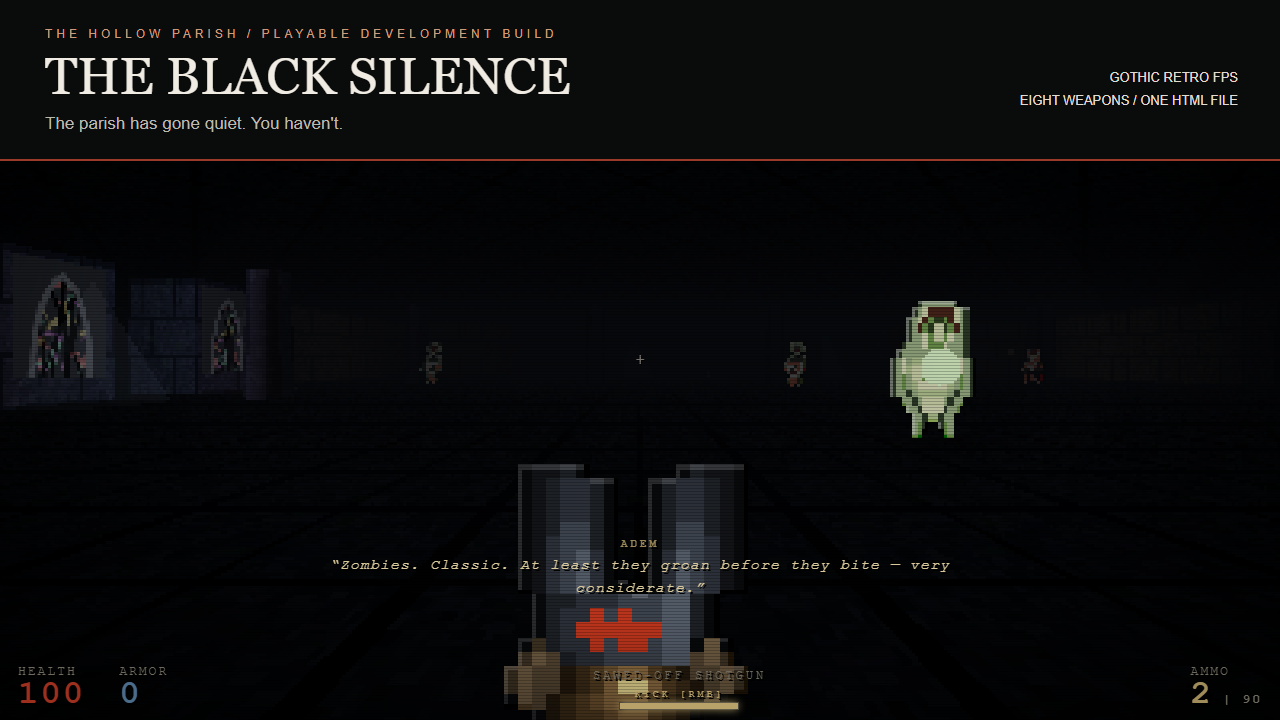
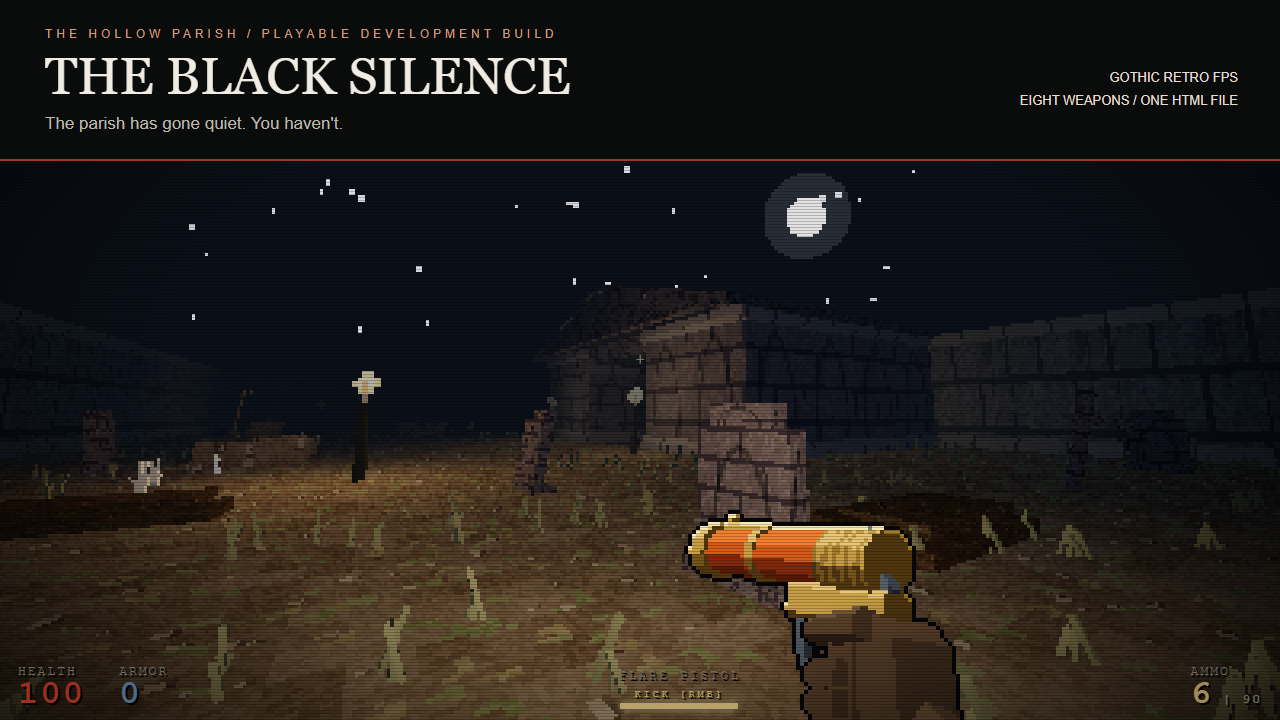
docs: new screenshots, preview and README from the current game

diff --git a/docs/PRESS-KIT.md b/docs/PRESS-KIT.md
@@ -5,28 +5,34 @@
 **Tagline:** The parish has gone quiet. You haven't.
 
 **Short description:** A gothic retro FPS in one downloadable HTML file.
-Explore a prologue and seven chapters, acquire eight weapons, and power-kick
-your way through the Hollow Parish.
+Claw out of a grave, cross hell, explore seven chapters, acquire eight
+weapons, and power-kick your way through the Hollow Parish.
 
 **Promotional copy:** Descend into THE BLACK SILENCE: The Hollow Parish, a
-playable retro FPS in development. Push through a gothic dungeon, an abandoned
-church, and the horrors beyond with an arsenal that stretches from a
-sawed-off shotgun to the Soul Reaper. Hunt for secret doors, confront bosses,
-or take a moment at a playable piano. Download the single HTML file and play
+playable retro FPS in development. Wake in a coffin, claw out into a churchyard
+at night, and descend through hell's lava pit before the climb. Push through a
+furnished gothic dungeon, an abandoned church, and the horrors beyond with an
+arsenal that stretches from a flare pistol and a sawed-off shotgun to the Soul
+Reaper, each drawn as a small animated 3D rig. Every sound is rebuilt, with a
+reverb room per theme. Hunt for secret doors, confront bosses, or take a
+moment at a playable piano. Download the single HTML file and play
 offline in a desktop browser. No launcher required.
 
 ## Türkçe
 
 **Slogan:** Sessizlik çöktü. Sıra sende.
 
-**Kısa açıklama:** Tek bir HTML dosyasında gotik retro FPS. Bir ön bölüm ve
-yedi bölümü keşfet, sekiz silahı topla ve Hollow Parish'in karanlığında
-kendine tekmelerle yol aç.
+**Kısa açıklama:** Tek bir HTML dosyasında gotik retro FPS. Mezarından çık,
+cehennemi geç, yedi bölümü keşfet, sekiz silahı topla ve Hollow Parish'in
+karanlığında kendine tekmelerle yol aç.
 
 **Tanıtım metni:** THE BLACK SILENCE: The Hollow Parish, geliştirme aşamasında
-oynanabilir bir retro FPS. Gotik zindanlardan terk edilmiş bir kiliseye ve
-ötesindeki dehşete uzanan yolculukta, kesik namlulu pompalı tüfekten Soul
-Reaper'a kadar sekiz silahı keşfet. Gizli kapıları bul, bölüm sonu düşmanlarıyla
+oynanabilir bir retro FPS. Tabutta uyan, gece bir mezarlığa tırmanıp çık,
+cehennemin lav havuzundan geç. Döşenmiş gotik zindanlardan terk edilmiş bir
+kiliseye ve ötesindeki dehşete uzanan yolculukta, flare tabancasından ve
+kesik namlulu pompalı tüfekten Soul Reaper'a kadar, her biri hareketli küçük
+bir 3B düzenek olarak çizilmiş sekiz silahı keşfet. Bütün sesler yeniden yapıldı.
+Gizli kapıları bul, bölüm sonu düşmanlarıyla
 yüzleş veya çalınabilir piyanonun başında kısa bir mola ver. Tek HTML dosyasını
 indir ve masaüstü tarayıcında çevrimdışı oyna. Başlatıcı gerektirmez.
 
@@ -47,25 +53,34 @@ indir ve masaüstü tarayıcında çevrimdışı oyna. Başlatıcı gerektirmez.
 ## Media / Medya
 
 - [Playable HTML / Oynanabilir HTML](../THE-BLACK-SILENCE.html)
-- [Trailer / Tanıtım videosu (MP4)](media/black-silence-trailer.mp4)
+- [Trailer / Tanıtım videosu (MP4, recorded from the 2026-09-18 build / 2026-09-18 sürümünden)](media/black-silence-trailer.mp4)
 - [Play online / Tarayıcıda oyna](https://torunum.github.io/black-silence/)
 - [Cover image / Tanıtım görseli (PNG)](media/cover.png)
 - [Gameplay preview / Oynanış önizlemesi (GIF)](media/preview.gif)
-- [Dungeon / Zindan (PNG)](media/dungeon.png)
-- [Corrupted Priest / Rahip karşılaşması (PNG)](media/church.png)
-- [Dungeon screenshot / Zindan ekran görüntüsü (PNG)](media/dungeon.png)
-- [Church screenshot / Kilise ekran görüntüsü (PNG)](media/church.png)
+- [Churchyard at night / Gece mezarlığı (PNG)](media/01-churchyard.png)
+- [Rising out of the grave / Mezardan çıkış (PNG)](media/02-grave-rising.png)
+- [Hell, the lava pit and the bridge / Cehennem, lav havuzu ve köprü (PNG)](media/03-hell-lava.png)
+- [The torture hall / İşkence salonu (PNG)](media/04-torture-hall.png)
+- [The church altar / Kilise sunağı (PNG)](media/05-church-altar.png)
+- [The Womb / Rahim (PNG)](media/06-womb.png)
+- [A crawler in the lava / Lavda sürünen (PNG)](media/07-hell-crawler.png)
+- [All eight weapons / Sekiz silahın hepsi (PNG)](media/08-weapons.png)
+- [Sound board / Ses panosu](https://torunum.github.io/black-silence/soundboard.html)
 - [README and controls / README ve kontroller](../README.md)
 - [Development status / Geliştirme durumu](STATUS.md)
 - [Known issues / Bilinen sorunlar](known-issues.md)
 
-**Capture note:** Trailer shots use staged camera positions and aim, unlocked
+**Capture note:** The stills and the preview GIF use staged camera positions and aim,
+unlocked weapons and supplied ammo, from the 2026-10-05 build; details are in
+[media/README.md](media/README.md). Trailer shots use staged camera positions and aim, unlocked
 weapon loadouts and supplied ammo, plus extended spawn protection for filming.
 Footage uses the running game's actual renderer and audio. The trailer is an
 edited showcase, not a continuous playthrough or a demonstration of normal
 progression and difficulty.
 
-**Çekim notu:** Tanıtım videosu için kamera konumları ve nişan ayarlanmış,
+**Çekim notu:** Ekran görüntüleri ve GIF, 2026-10-05 sürümünden, ayarlanmış kamera ve
+nişan, açılmış silahlar ve sağlanmış cephane ile alındı; ayrıntılar
+[media/README.md](media/README.md) içinde. Tanıtım videosu için kamera konumları ve nişan ayarlanmış,
 silah kilitleri açılmış, cephane sağlanmış ve doğuş sonrası koruma süresi
 uzatılmıştır. Görüntüler ve sesler çalışan oyundan alınmıştır. Video,
 kesintisiz bir oynanış kaydı veya normal ilerleyiş ve zorluğun gösterimi

diff --git a/README.md b/README.md
@@ -6,32 +6,60 @@
 
 A gothic retro first-person shooter with pixelated 3D spaces, eight weapons,
 and a power kick for anything that gets too close. Download one HTML file,
-open it in your desktop browser, and descend.
+open it in your desktop browser, and claw your way out of the ground.
 
 ![THE BLACK SILENCE: The Hollow Parish](docs/media/cover.png)
 
 **[Play in your browser](https://torunum.github.io/black-silence/)** ·
 **[Download the game](https://github.com/torunum/black-silence/releases/download/preview-2026-09-18/THE-BLACK-SILENCE.html)** ·
-**[Watch the trailer](https://torunum.github.io/black-silence/media/black-silence-trailer.mp4)** ·
+**[Watch the trailer](https://torunum.github.io/black-silence/media/black-silence-trailer.mp4)** (from the 2026-09-18 build) ·
+**[Listen to the sound board](https://torunum.github.io/black-silence/soundboard.html)** ·
 **[Press kit / Basın kiti](docs/PRESS-KIT.md)**
 
 ## Enter the Parish
 
-- **A prologue and seven chapters:** from the pit and gothic dungeon through
-  an abandoned church, necropolis, graveyard, sewers, factory, and The Womb.
-- **Eight weapons to acquire:** a sawed-off shotgun, automatic weapons, a scoped
-  sniper, the Holy Cross Launcher, and the Soul Reaper expand your arsenal.
+- **It starts in a grave.** In the prologue ADEM wakes in a coffin, splits the
+  lid, and claws out into a churchyard at night: stars, a moon, headstones,
+  a mausoleum. Its crypt stair leads down into hell: cracked basalt with
+  glowing fissures, a real flowing lava pit with a lava fall, a stone bridge,
+  fire and embers. Then you climb back out. Seven chapters follow: the gothic
+  dungeon, an abandoned church, a necropolis, a graveyard, sewers, a factory,
+  and The Womb.
+- **Eight weapons to acquire:** a flare pistol, a sawed-off shotgun, a combat
+  rifle, a tommy gun, a scoped sniper, the Holy Cross Launcher, a nail cannon,
+  and the Soul Reaper. Each is a small 3D rig, posed and drawn down to pixel
+  art every frame, with mechanisms that move: the pump, the break-open
+  barrels, the drum, the spinning cluster.
 - **Close-range impact:** sprint, jump, and power-kick enemies into walls.
-- **More than corridors:** secret doors, red keys, explosive barrels, boss
-  encounters, and a playable piano.
+  The sprint has its own pose, the stride is a human two or three steps a
+  second, and the kick is a real leg.
+- **Rooms with things in them:** a torture hall of cages, racks and iron
+  maidens; a nave of candelabra, banners and fallen saints; sarcophagi, pipes
+  and machines; flesh growths in The Womb. The large pieces are solid.
+  Secret doors, red keys, explosive barrels, boss encounters, and a playable
+  piano are still in there.
+- **A sound of its own:** every sound is rebuilt: a reverb room per theme,
+  layered weapons, monster voices, and the sounds of the world. The
+  [sound board](https://torunum.github.io/black-silence/soundboard.html)
+  plays them one by one.
 - **Built from code:** procedural textures, sprites, sound, and music;
   adjustable low-resolution rendering and locally saved chapter unlocks
   when browser storage is available.
 
 ![Animated gameplay preview](docs/media/preview.gif)
 
-[Dungeon screenshot](docs/media/dungeon.png) ·
-[Church screenshot](docs/media/church.png)
+| | |
+| --- | --- |
+| ![A night churchyard: the moon, a mausoleum, an open grave](docs/media/01-churchyard.png) | ![Hell: a lava river, a lava fall and a stone bridge](docs/media/03-hell-lava.png) |
+| The churchyard, with the grave ADEM left open | Hell: basalt, fire and a river of lava |
+| ![The abandoned church: an altar under banners, two zombies](docs/media/05-church-altar.png) | ![The Womb: a hall of flesh](docs/media/06-womb.png) |
+| Level 2, the church altar and its banners | Level 7, The Womb |
+
+![All eight weapons](docs/media/08-weapons.png)
+
+More: [rising out of the grave](docs/media/02-grave-rising.png) ·
+[the torture hall in a fight](docs/media/04-torture-hall.png) ·
+[a crawler in the lava](docs/media/07-hell-crawler.png).
 
 ## Play
 
@@ -112,10 +140,17 @@ a complete network-dependency audit.
 **Sessizlik çöktü. Sıra sende.**
 
 THE BLACK SILENCE: The Hollow Parish, gotik atmosferi retro FPS aksiyonuyla
-birleştiren, geliştirme aşamasında oynanabilir bir oyun. Bir ön bölüm ve yedi
-bölüm boyunca sekiz silahı keşfet; koş, zıpla ve yaklaşan düşmanları tekmeyle
-savur. Gizli kapılar, bölüm sonu karşılaşmaları ve çalınabilir bir piyano seni
-bekliyor.
+birleştiren, geliştirme aşamasında oynanabilir bir oyun. Ön bölümde ADEM, gece
+bir mezarlıkta tabutunu yarıp mezarından çıkıyor; mezarlıktaki mozolenin mahzen
+merdiveni onu cehenneme indiriyor: parlayan çatlaklı bazalt, akan gerçek bir
+lav havuzu, taş bir köprü, ateş ve kor. Sonra yedi bölüm boyunca sekiz silahı
+keşfet. Silahların hepsi baştan çizildi; her biri hareketli mekanizmalarıyla
+küçük bir 3B düzenek. Koş, zıpla ve yaklaşan düşmanları tekmeyle savur. İşkence
+salonu, şamdanlı kilise nefi, lahitler ve et kütleleriyle döşenmiş
+bölümlerde, gizli kapılar, bölüm sonu karşılaşmaları ve çalınabilir bir piyano
+seni bekliyor. Ses tamamen yeniden yapıldı; her sesi
+[ses panosunda](https://torunum.github.io/black-silence/soundboard.html) tek tek
+dinleyebilirsin.
 
 [Tarayıcıda oyna](https://torunum.github.io/black-silence/) veya
 [tek HTML dosyasını indir](https://github.com/torunum/black-silence/releases/download/preview-2026-09-18/THE-BLACK-SILENCE.html), masaüstü tarayıcında aç

diff --git a/docs/media/README.md b/docs/media/README.md
@@ -1,22 +1,65 @@
 # Publication Media
 
-Captured on 2026-09-18 from the local development build at game commit
-`d6c7033`, without changes to gameplay source. All pictures and sound come
-from the game's procedural renderer and WebAudio engine; no stock footage,
-external music, or generated concept art is used.
+The stills, `preview.gif` and `cover.png` were captured on 2026-10-05 from the
+local development build at game commit `38319e2` (master), without changes to
+gameplay source. All pictures come from the game's procedural renderer; no
+stock footage, external music, or generated concept art is used.
+
+**The trailer is older.** `black-silence-trailer.mp4` was recorded on
+2026-09-18 from game commit `d6c7033` and has not been re-recorded: it shows
+the earlier weapons, the earlier prologue and no sound rebuild. Everything
+else in this folder is from the current game.
 
 - `black-silence-trailer.mp4`: approximately 26 seconds, 1280x720, 25 fps,
-  H.264 video and AAC stereo audio, fast-start MP4.
-- `preview.gif`: seven-second combat excerpt, 640x360, 10 fps.
-- `cover.png`: promotional typography over the dungeon capture, 1280x720.
-- `dungeon.png`, `church.png`: 1280x720 browser captures with trailer captions.
+  H.264 video and AAC stereo audio, fast-start MP4. From the 2026-09-18 build.
+- `preview.gif`: seven-second excerpt, 640x360, 10 fps: the coffin lid
+  cracking and bursting, ADEM sitting up in the grave; the west bank of hell
+  walking toward the bridge; a fight in the church with the tommy gun; a
+  fight in level 1's torture hall with the Soul Reaper.
+- `cover.png`: promotional typography over `01-churchyard.png`, 1280x720.
+- 1280x720 browser captures, HUD on, subtitles and level title hidden:
+  - `01-churchyard.png`: the prologue's churchyard, flare pistol, standing
+    west of the grave looking east (moon, mausoleum, headstone, open grave).
+  - `02-grave-rising.png`: the opening cinematic frozen at 2.6 s, ADEM lying
+    in the grave looking up at the stars as the earth falls in.
+  - `03-hell-lava.png`: hell from the west bank, tommy gun: lava river, the
+    stone bridge, a brazier, the lava fall.
+  - `04-torture-hall.png`: level 1's torture hall, Soul Reaper, a zombie
+    and a second enemy closing in under the hanging cages.
+  - `05-church-altar.png`: level 2's chapel, combat rifle, the altar under
+    its banners with two zombies.
+  - `06-womb.png`: level 7, The Womb, nail cannon, a zombie by the growths.
+  - `07-hell-crawler.png`: hell from the bridge's end, tommy gun: a crawler
+    in the lava below the south lava fall.
+- `08-weapons.png`: 1280x1280 contact sheet of all eight weapons, cropped from
+  1920x1080 captures with the HUD hidden, against a churchyard wall.
 
-The sequence shows the prologue, level 1 combat, and the Corrupted Priest
-in level 2. Filming stages chapter positions and camera aim, unlocks weapons,
-supplies ammunition, and extends spawn protection. It demonstrates the actual
-renderer, enemies, weapons, and sound, not normal progression or difficulty.
+## How they were staged
 
-Capture tools: Playwright Chromium with a fresh temporary browser profile,
-MediaRecorder for the game's master audio bus, and FFmpeg 7.1 for encoding.
-Source captures and local helper scripts are excluded in `.release-work/`.
+The shots stage the camera by importing the game's own modules through a Vite
+dev server and setting the player's position and aim; they unlock all weapons,
+fill the ammunition, extend spawn protection, and equip a chosen weapon. They
+demonstrate the actual renderer, enemies and weapons, not normal progression
+or difficulty.
+
+| Still | Level | Position (cell) and aim | Weapon |
+| --- | --- | --- | --- |
+| `01-churchyard` | Prologue | (3, 4), yaw 4.16 rad (east-southeast), pitch +0.12 | Flare pistol |
+| `02-grave-rising` | Prologue | opening cinematic, clock frozen at 2.6 s | none (hidden) |
+| `03-hell-lava` | Prologue | (9, 22), yaw -2.4, pitch -0.12 | Tommy gun |
+| `04-torture-hall` | Level 1 | (21, 16), yaw 0.59; auto-aim at the nearest enemy, 0.1 s into a burst | Soul Reaper |
+| `05-church-altar` | Level 2 | (20, 5), yaw 0 | Combat rifle |
+| `06-womb` | Level 7 | (16, 12), yaw 0 | Nail cannon |
+| `07-hell-crawler` | Prologue | (10, 24), yaw -1.9, pitch -0.1 | Tommy gun |
+| `08-weapons` | Prologue | (12, 1) beside the north wall, yaw 0, 1920x1080, HUD hidden | each in turn |
+
+`preview.gif` was recorded as a 640x360 Playwright video of the same staged
+scenes (the cinematic started at 1.55 s, W held from cell (8, 22) in hell, auto-aim and fire
+in the two fights), cut to seven seconds, and encoded to a 96-colour GIF.
+
+Capture tools: Playwright Chromium (software GL) with a fresh temporary
+browser profile, Playwright's bundled FFmpeg for frame extraction, and Pillow
+for the GIF and the contact sheet. The original trailer used MediaRecorder on
+the game's master audio bus and FFmpeg 7.1. Source captures and helper scripts
+are not in the repository (the older ones were excluded in `.release-work/`).
 The public game has no recording helpers or filming modifications.
